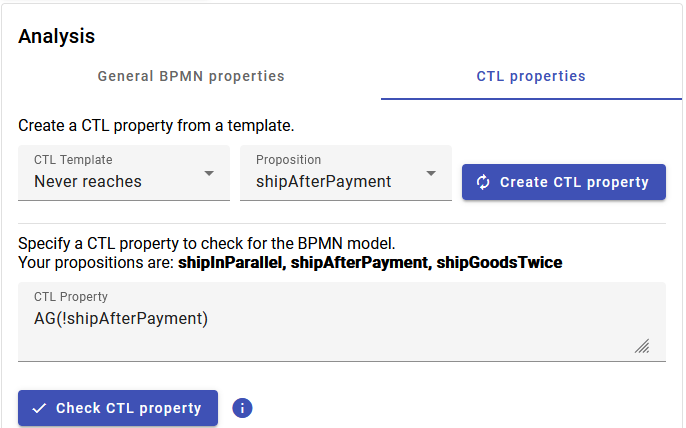
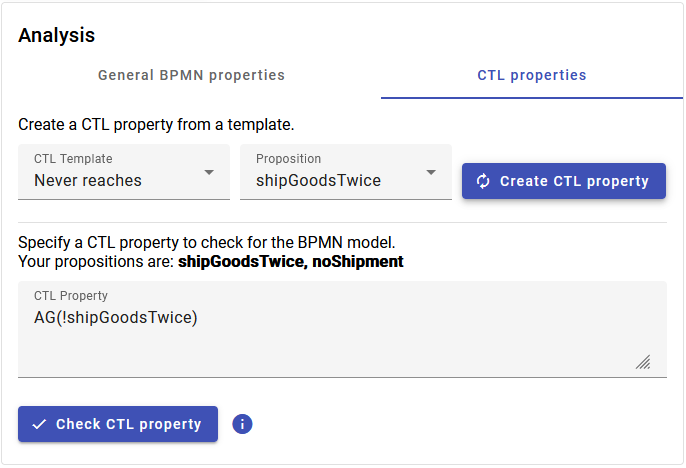
Section 3 finished

diff --git a/main.tex b/main.tex
@@ -565,7 +565,7 @@ Furthermore, modelers may forbid certain states in the BPMN model by specifying 
 These situations would lead to Negative Application Conditions (NACs) in the graph conditions. 
 
 For example, the token distribution shown in \autoref{fig:shippedTwiceProposition} defines a process snapshot with two tokens at activity \textit{Ship goods}.
-A modeler could use this atomic proposition to check if the activity \textit{Ship goods} is executed twice by creating an appropriate LTL/CTL property.
+A modeler could use this atomic proposition to check if the activity \textit{Ship goods} is executed twice by creating an appropriate CTL property.
 % AG(!shippGoodsTwice)
 Shipping goods twice but only receiving one payment during an order-handling process would be a critical error for a business.
 The order handling process in \autoref{fig:shippedTwiceProposition} is taken from \cite{ruckerPracticalProcessAutomation2021} but changed to contain a modeling error.
@@ -588,8 +588,9 @@ The modeling error leads to potentially shipping goods twice if the process is n
 Another proposition for the same process with a different error is shown in \autoref{fig:noShipment}.
 The proposition \textit{noShipment} defines that the activity \textit{Ship goods} should not run.
 \enquote{Has no token} is depicted by crossing out the token symbol and represents an extension of our concrete syntax introduced for defining propositions.
-This proposition can be used to define a property to check if shipping always occurs.
+This proposition can be used to define a CTL property to check if shipping always occurs.
 % !AG(noShipment) -> Never no shipment
+In this case, the error in the order handling process prevents shipping from occurring.
 The GT systems for both variants of the order handling process containing the propositions can be found in \cite{timkrauterLMCS2024Artifacts2023}.
 
 \begin{figure}[ht]
@@ -636,22 +637,21 @@ The BPMN Analyzer interface is structured into three distinct steps where the us
   
   \item The \textbf{Custom Propositions} step contains our custom \textit{Token Editor} and is shown in \autoref{fig:impl_step2}.
   In this step, users may create atomic propositions, which can be used as ingredients in the custom CTL properties in the analysis step.
-  In \autoref{fig:impl_step2}, the user is editing the first of three created propositions.
+  In \autoref{fig:impl_step2}, the user is editing one of two created propositions.
   Users who are only interested in general BPMN properties may skip this step.
   Atomic propositions are created using the concrete syntax detailed in \autoref{subsec:customProperties}, implemented in our \textit{Token Editor}.
   As mentioned, to create a proposition, users attach tokens and process snapshots to the BPMN model created in the modeling step.
 
 \begin{figure}[ht]
     \centering
-    % long with step buttons.
-    \frame{\includegraphics[width=1\textwidth]{images/impl_step2_long.png}}
+    \frame{\includegraphics[width=1\textwidth]{images/impl_step2.png}}
     \caption{Screenshot of the \textit{propositions step} in the BPMN Analyzer}
     \label{fig:impl_step2}
 \end{figure}
   
   \item In the \textbf{Analysis} step, users may check the general BPMN properties and build custom CTL properties using the atomic propositions.
   The properties builder utilizes a textual CTL syntax to specify custom properties using the atomic propositions from the previous step, see \autoref{fig:impl_step3_ctl}.
-  The three atomic propositions created in the previous step (see \autoref{fig:impl_step2}) are available to the user.
+  The two atomic propositions created in the previous step (see \autoref{fig:impl_step2}) are available to the user.
   The CTL properties builder comes with CTL templates to facilitate commonly occurring CTL properties.
   These templates allow users to check whether a state (described by an atomic proposition) can be reached or is never reached.
   Thus, simple safety and liveness properties can be checked using these templates.
